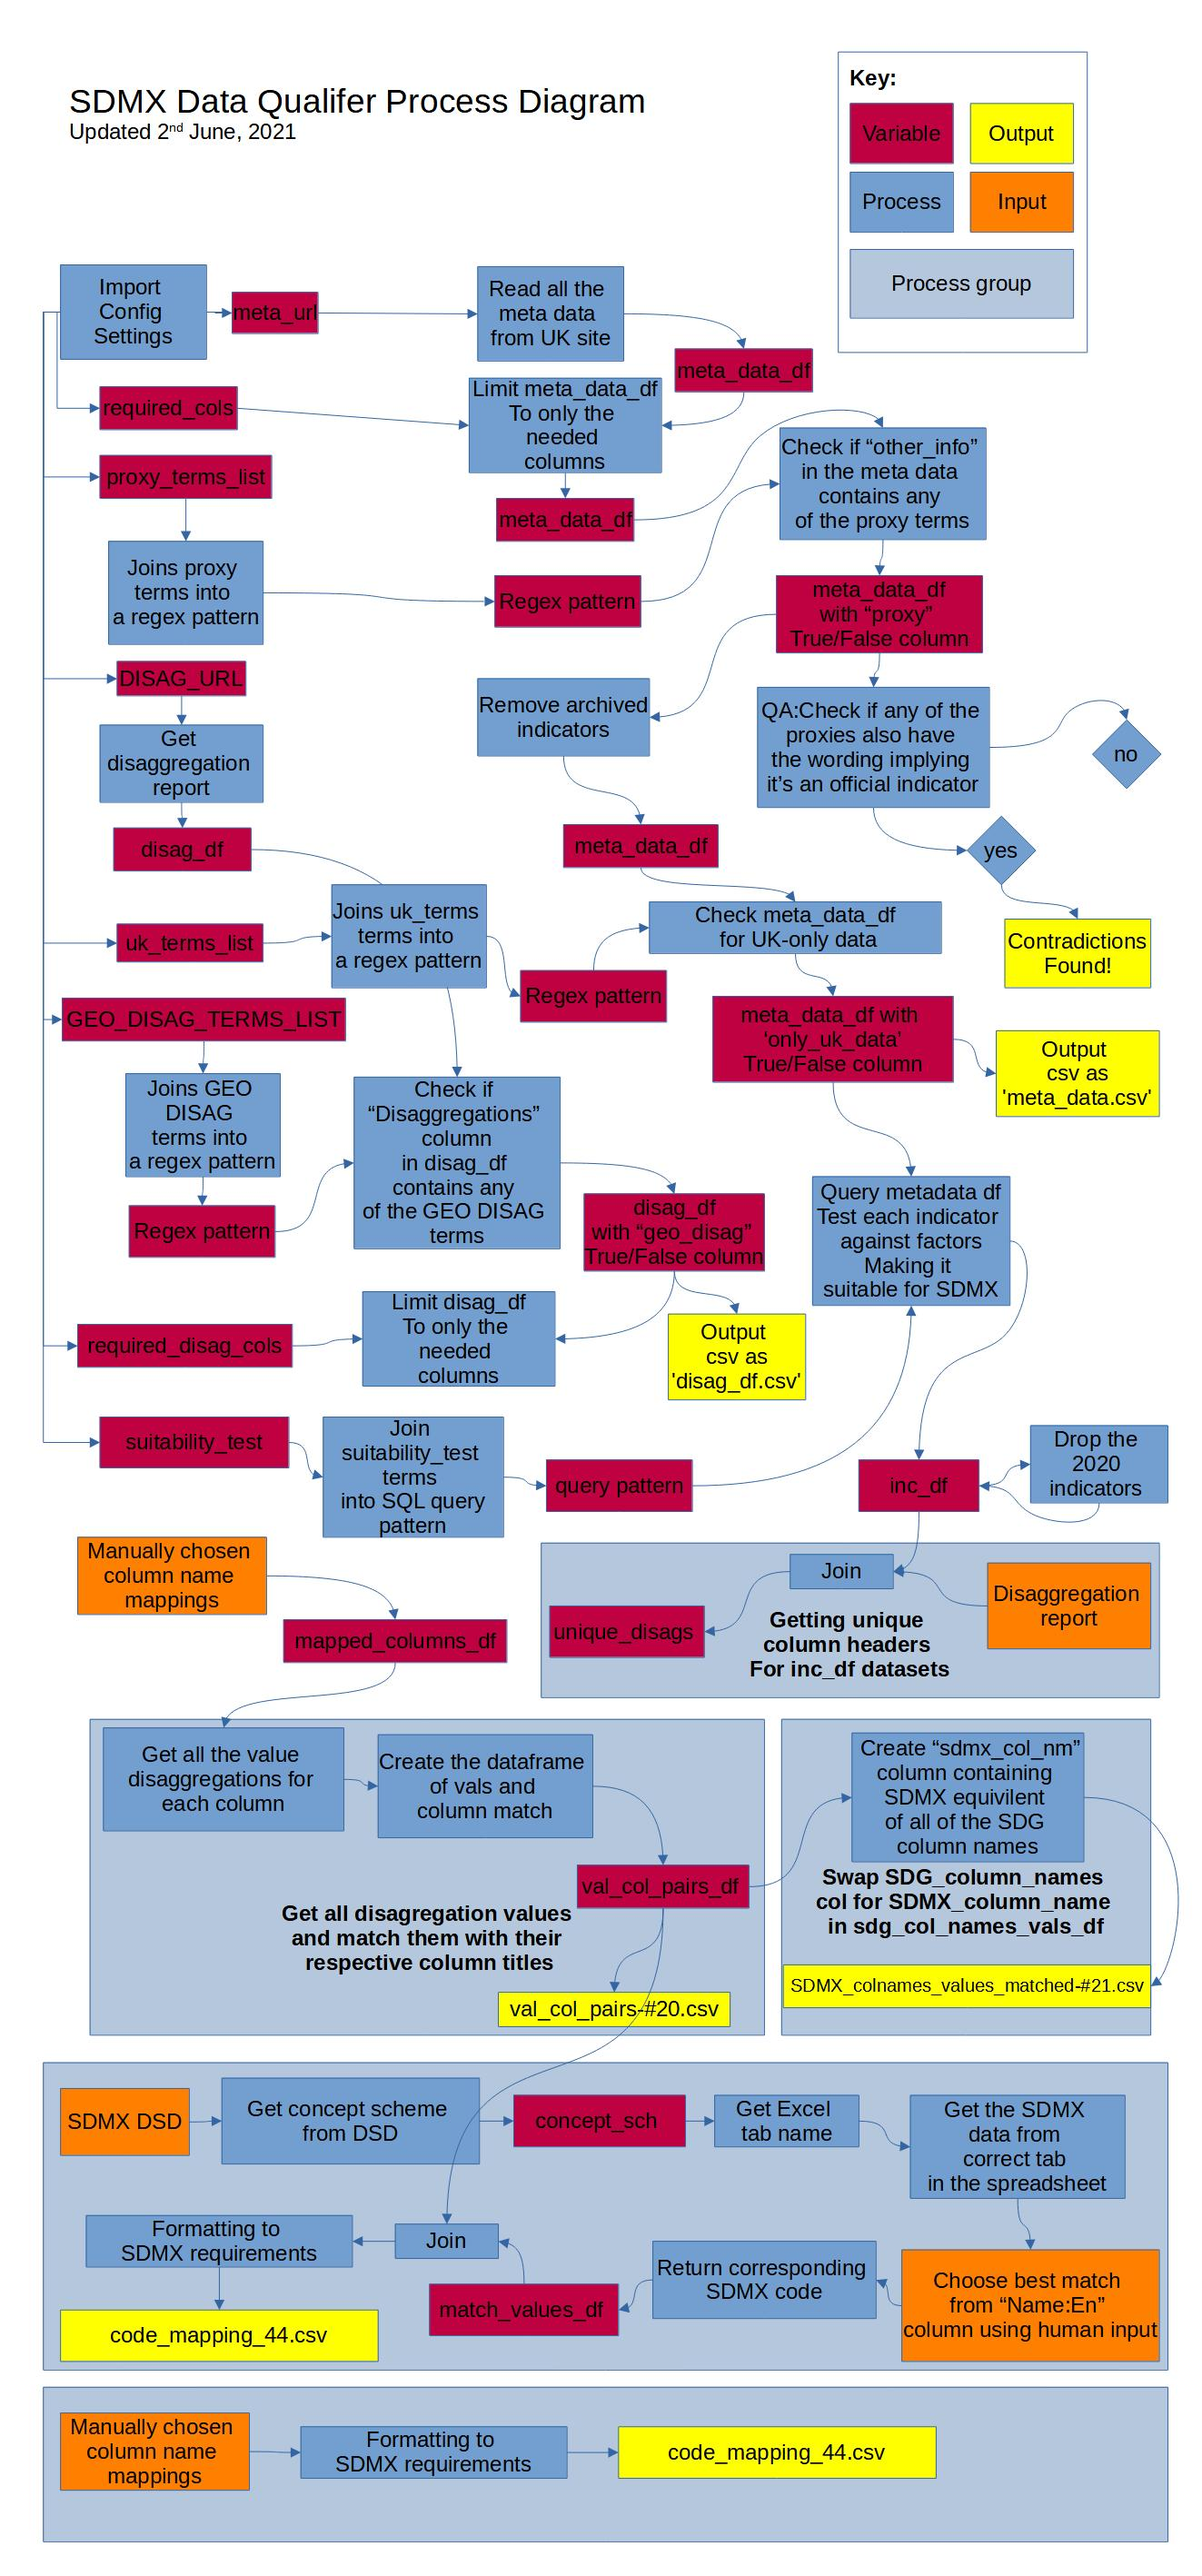
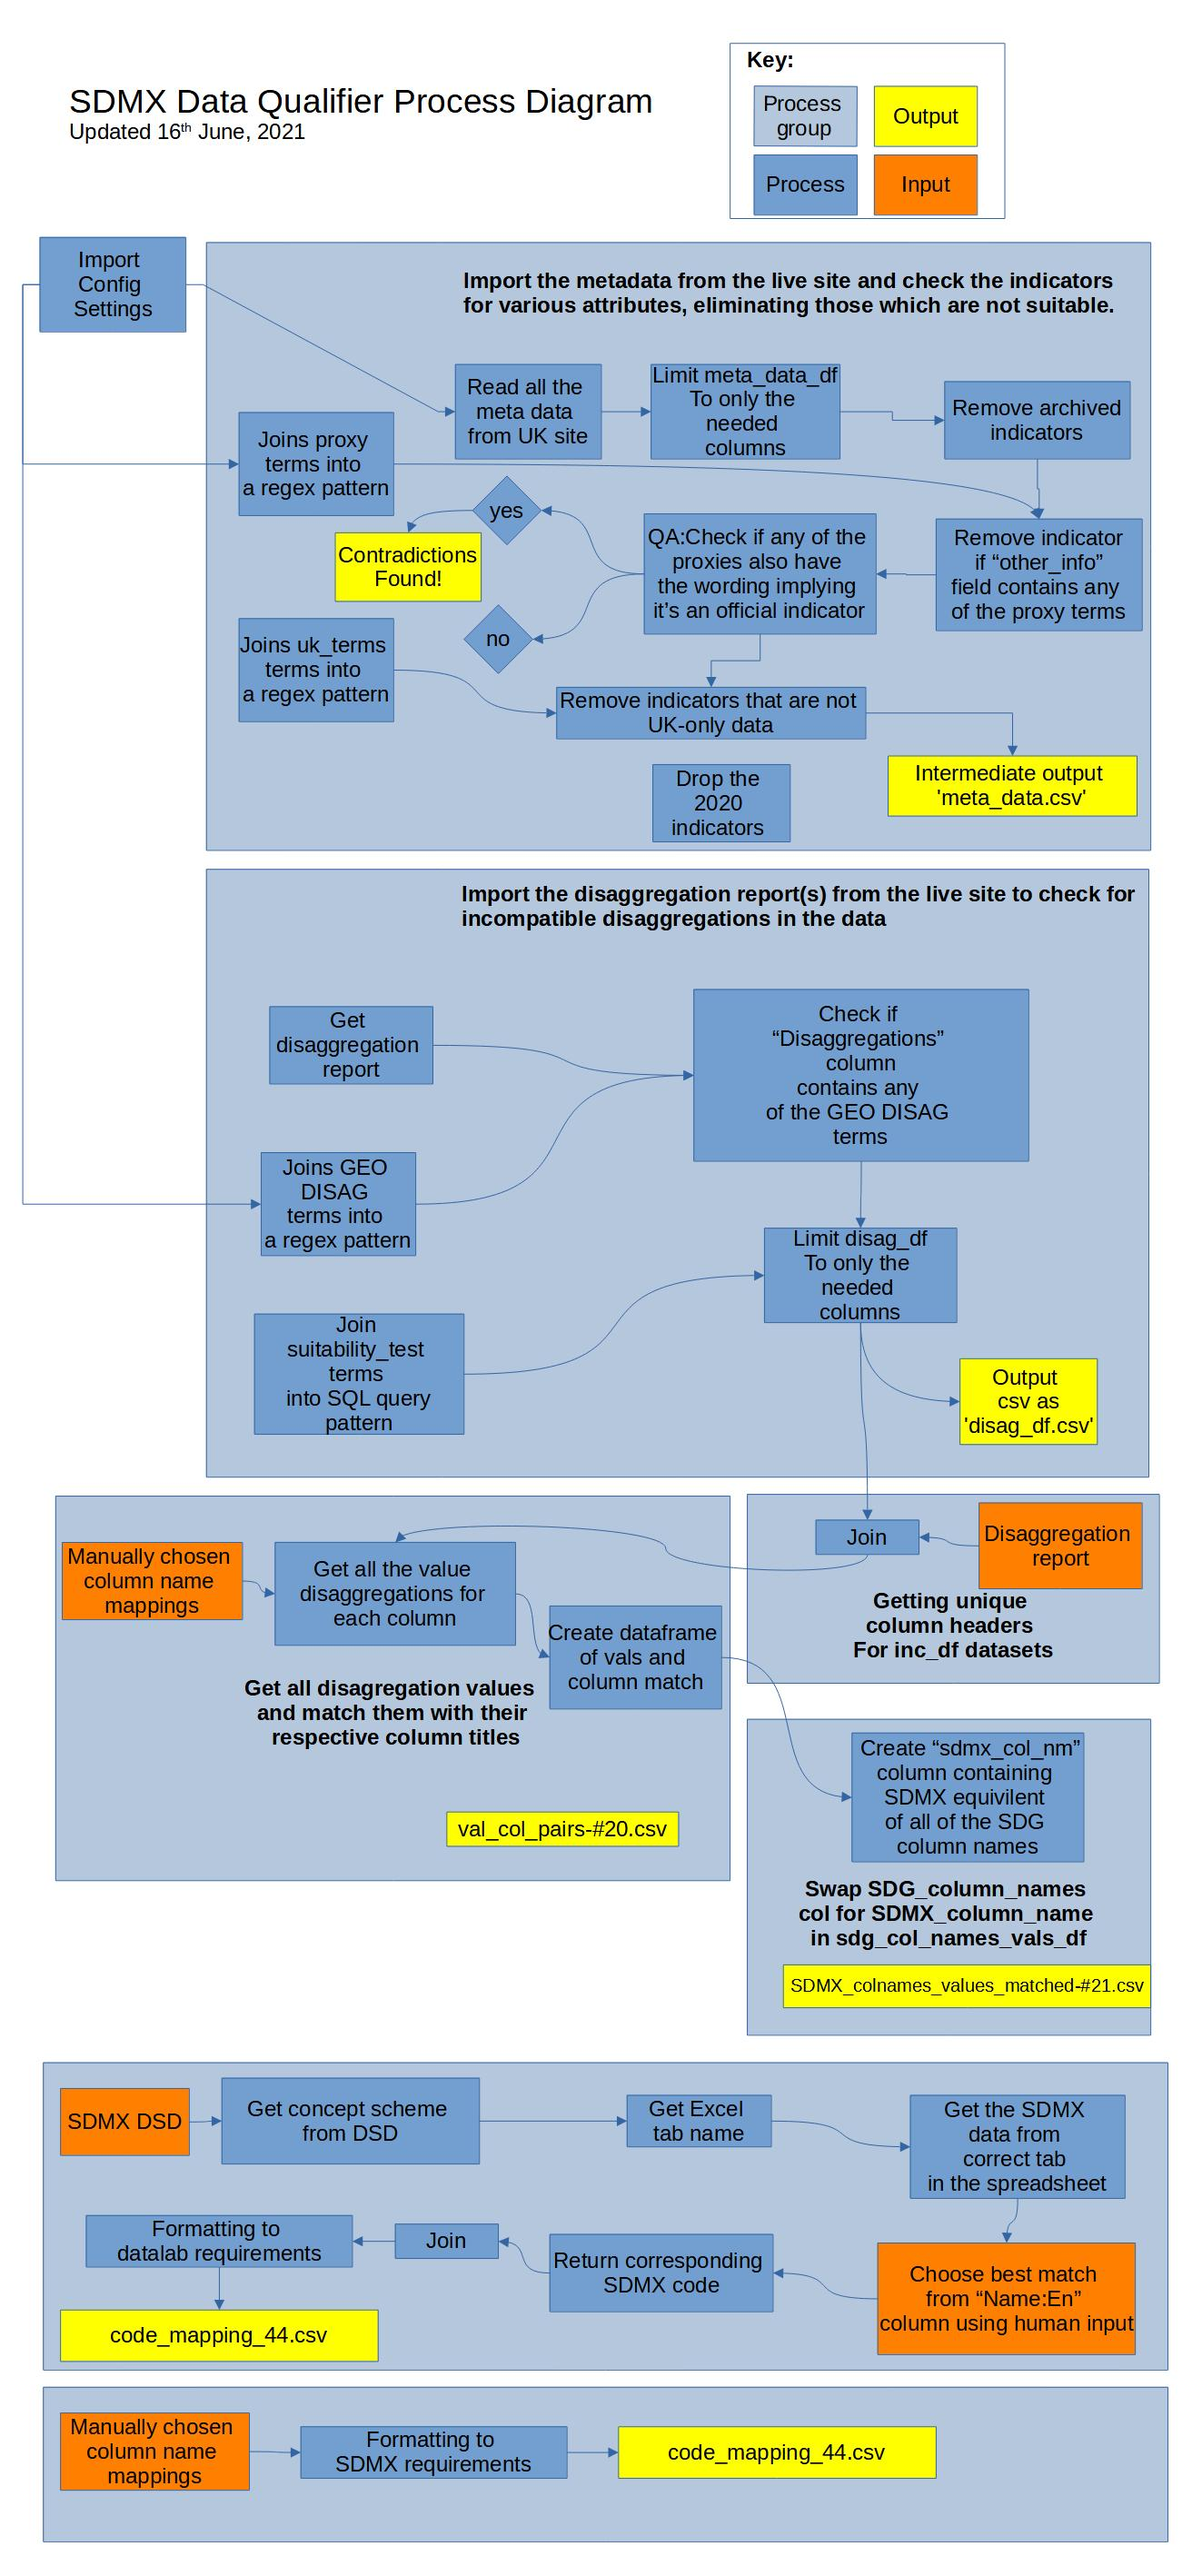
updated diagrams. Inserted into README

diff --git a/README.md b/README.md
@@ -10,6 +10,8 @@ The datasets are selected according to user-defined criteria, which are set in t
 
 ![Overview of the process](https://github.com/ONSdigital/sdg-SDMX-data-qualifier/blob/8cc823fd70386c36ce66f7c2077e96762b5b6c8a/images/Overview%20of%20the%20sdg-sdmx%20mapping%20process.jpg)
 
+See the ![technical process diagram](https://github.com/ONSdigital/sdg-SDMX-data-qualifier/blob/8cc823fd70386c36ce66f7c2077e96762b5b6c8a/images/SDMX_qual_flow_diagram.jpg).
+
 ## Code mapping
 
 The _disaggregation values_, in the SDG datasets are mapped to _SDMX code IDs_. For example Female within the Sex disaggregation would be mapped to the SDMX code “F”. This mapping is carried out via a semi-manual/computer-assisted process. The script looks for the best matches for the each of those values, and presents them to the user. The user has the final decision on which of the values is mapped to which SDMX value (its name in English). Then, based on the user choice of the SDMX value, the script then couples selects the SDMX code associated with that SDMX value and inserts it into the data table.
